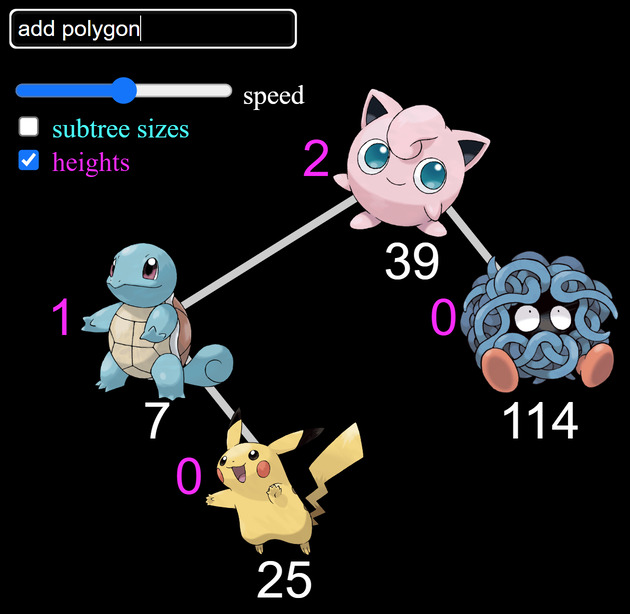
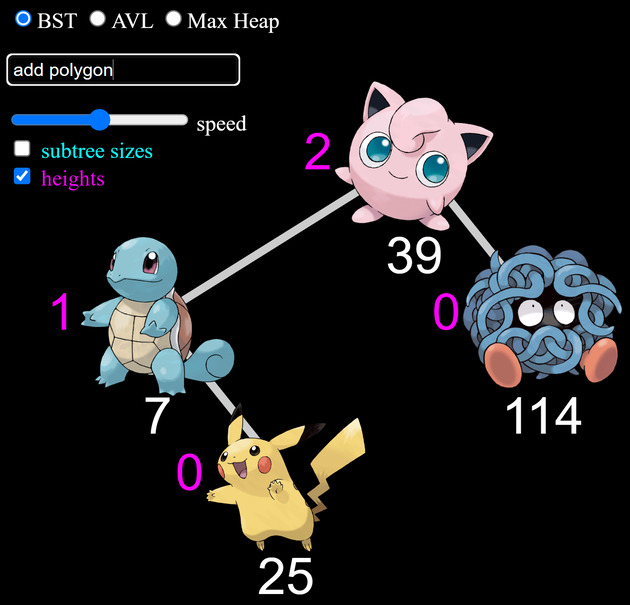
Document heaps

diff --git a/README.md b/README.md
@@ -1,8 +1,9 @@
 # PokeTree: BSTs with Pokémon
 
 ***PokeTree*** is a web app for visually demonstrating and animating
-**[Binary Search Trees (BSTs)](https://en.wikipedia.org/wiki/Binary_search_tree)**
-and **[AVL trees](https://en.wikipedia.org/wiki/AVL_tree)**.
+**[Binary Search Trees (BSTs)](https://en.wikipedia.org/wiki/Binary_search_tree)**,
+**[AVL trees](https://en.wikipedia.org/wiki/AVL_tree)**, and
+**[binary heaps](https://en.wikipedia.org/wiki/Heap_(data_structure))**.
 
 ## [Try It Out!](https://edemaine.github.io/poketree/)
 
